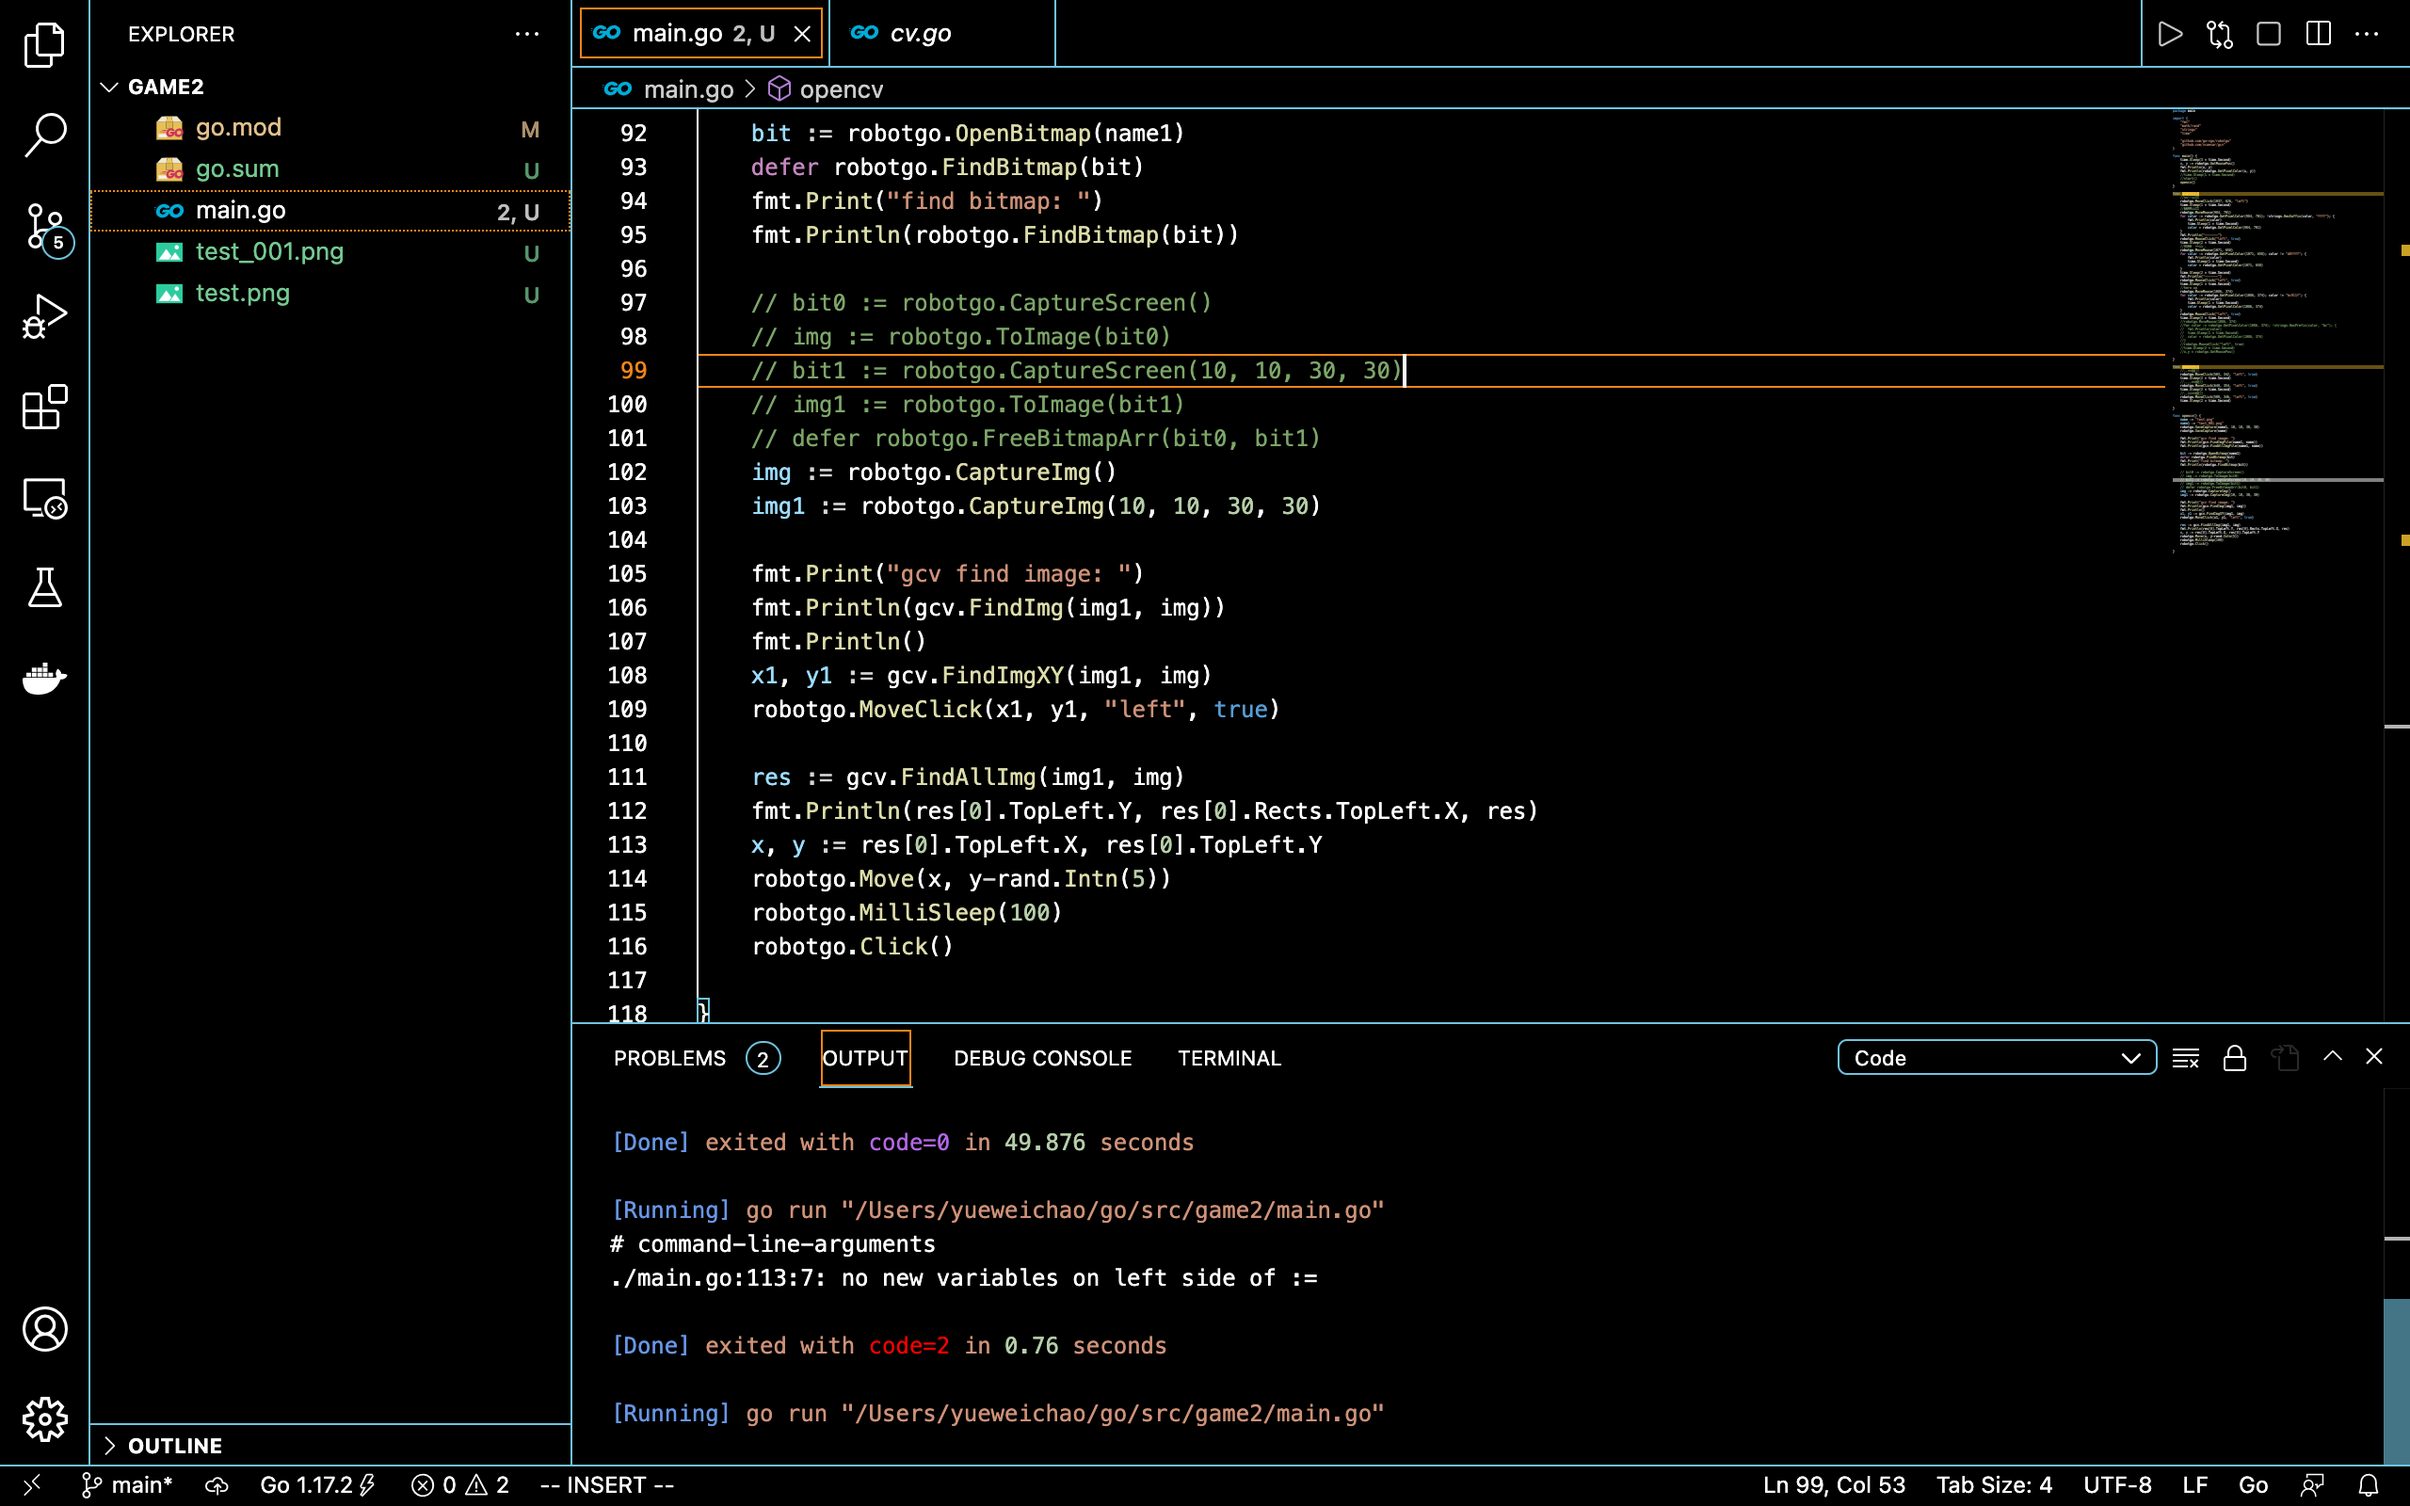
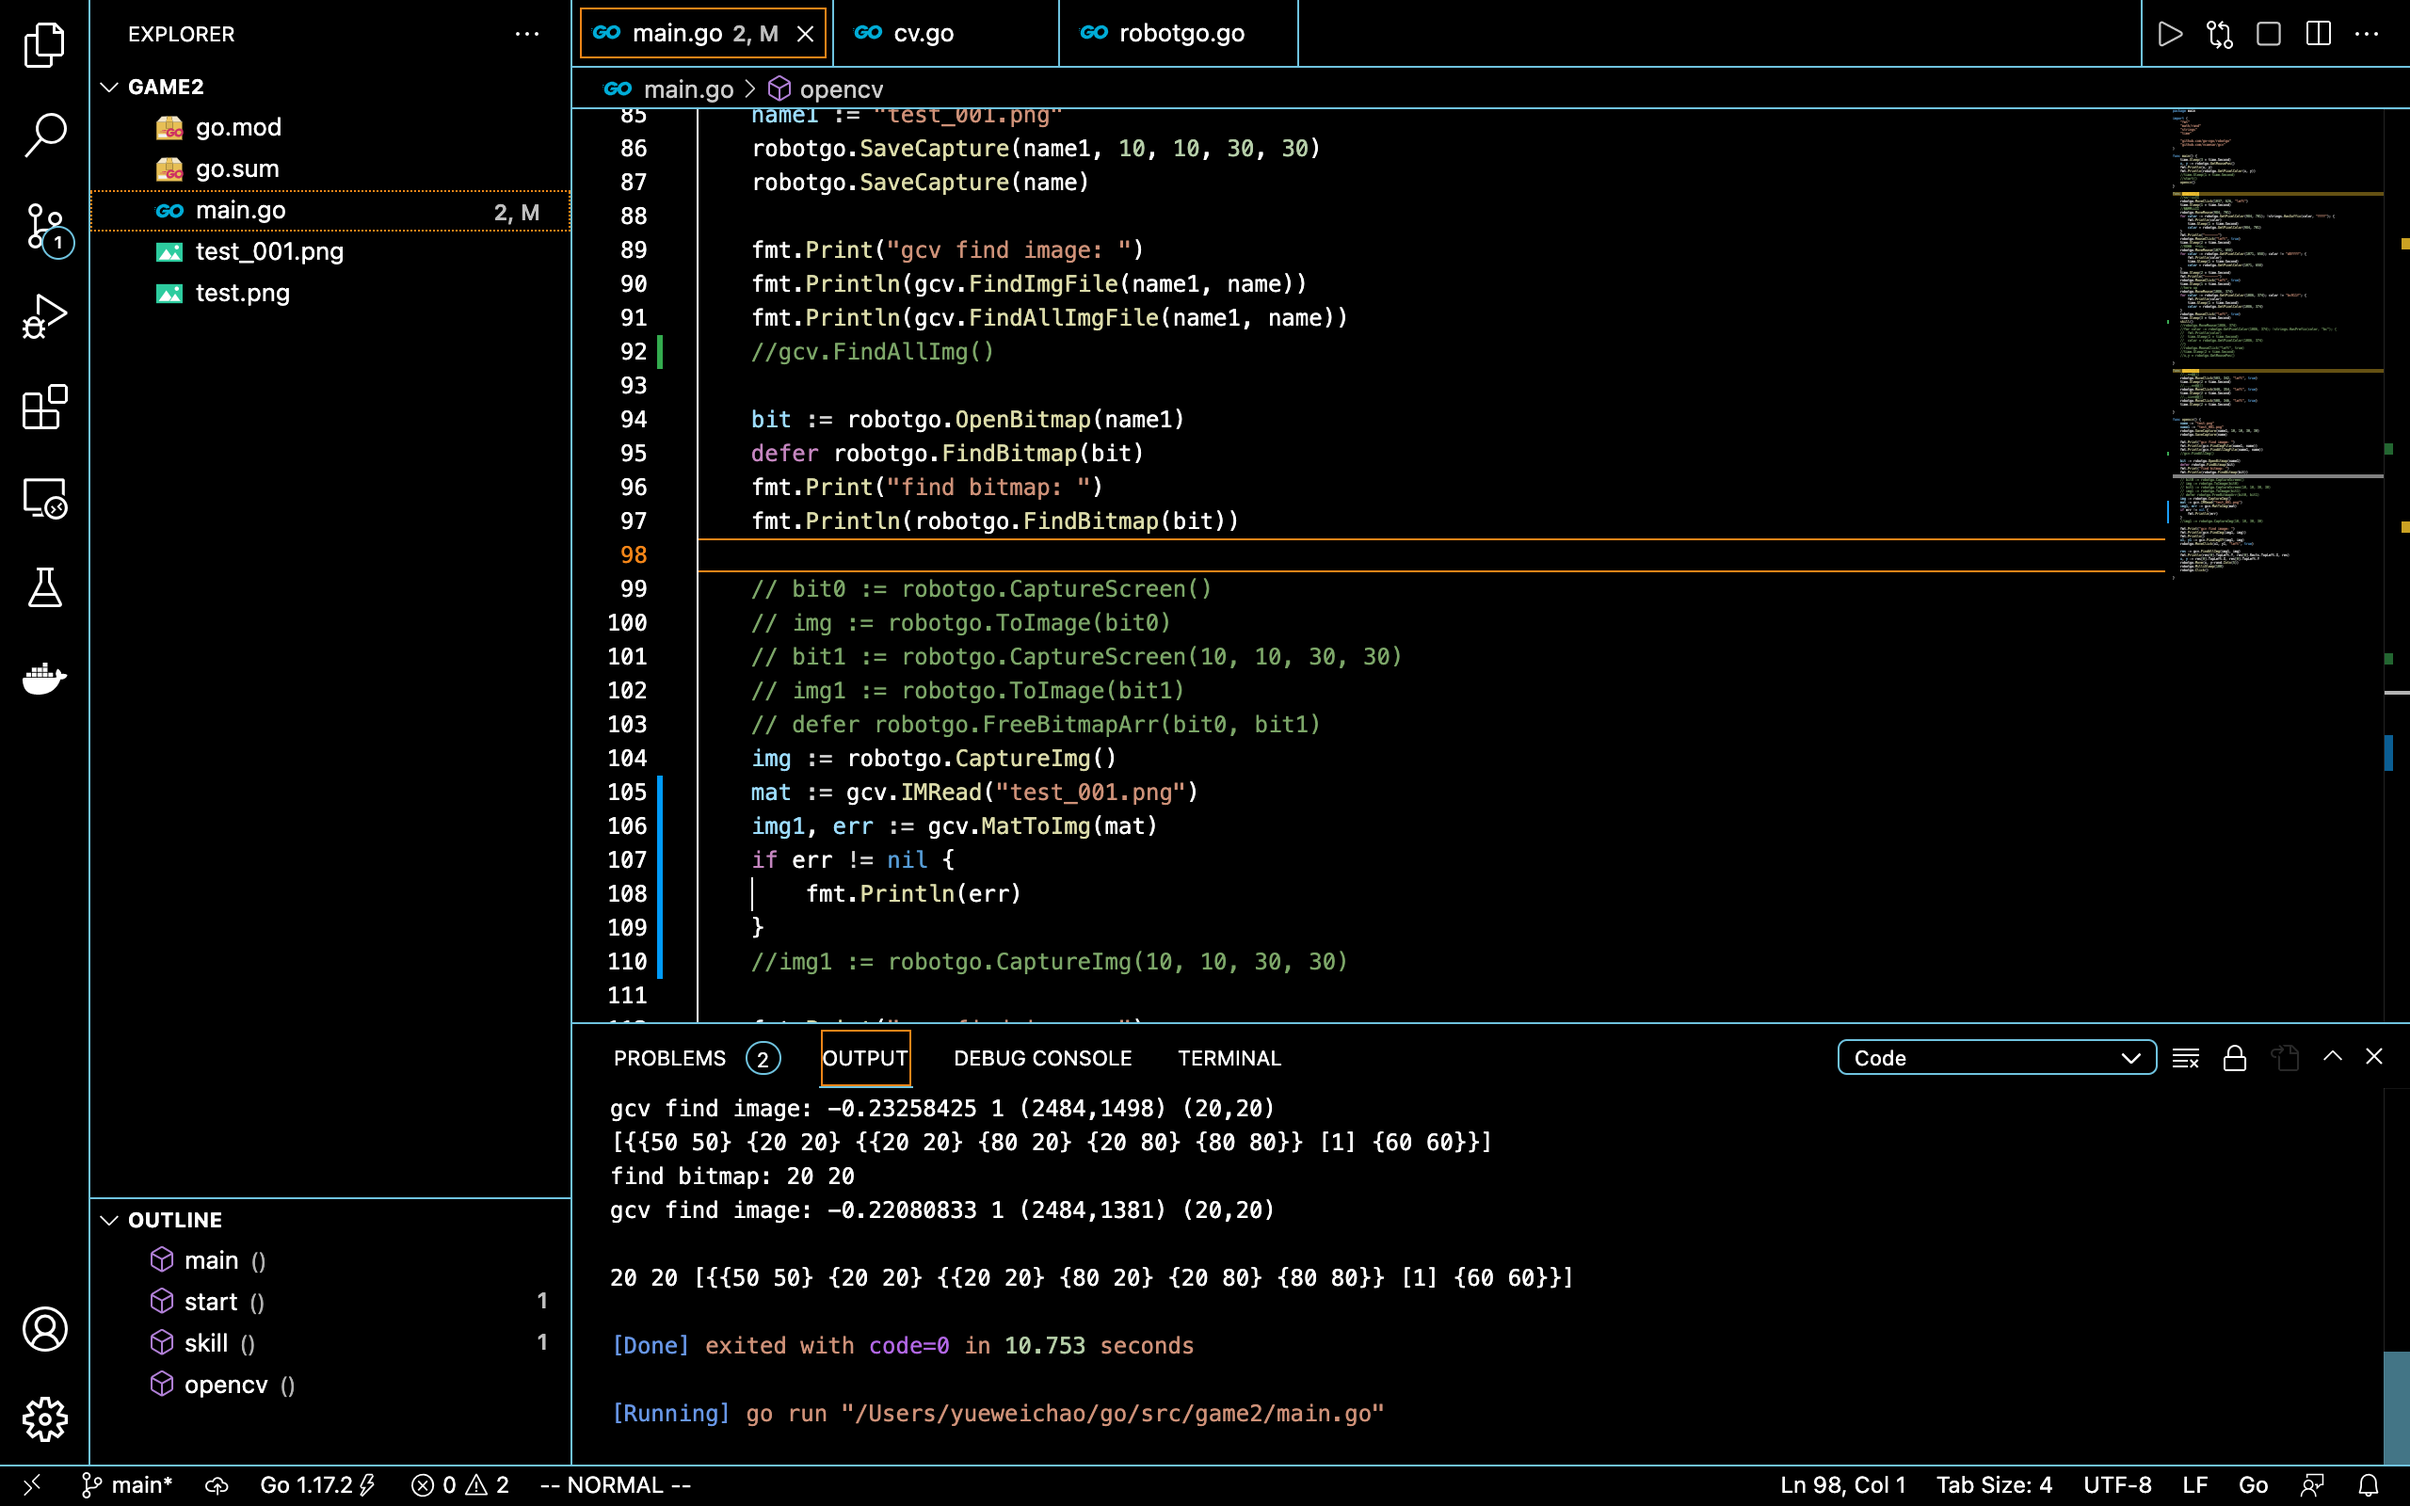
v1

diff --git a/main.go b/main.go
@@ -10,14 +10,16 @@ import (
 	"github.com/vcaesar/gcv"
 )
 
+var count = 0
+
 func main() {
 	time.Sleep(3 * time.Second)
-	x, y := robotgo.GetMousePos()
-	fmt.Println(x, y)
-	fmt.Println(robotgo.GetPixelColor(x, y))
+	//x, y := robotgo.GetMousePos()
+	//fmt.Println(x, y)
+	//fmt.Println(robotgo.GetPixelColor(x, y))
 	//time.Sleep(1 * time.Second)
-	//start()
-	opencv()
+	start()
+	//opencv()
 }
 
 func start() {
@@ -34,26 +36,28 @@ func start() {
 	fmt.Println("-------")
 	robotgo.MouseClick("left", true)
 	time.Sleep(2 * time.Second)
-	//战斗开始按钮
-	robotgo.MoveMouse(1071, 658)
-	for color := robotgo.GetPixelColor(1071, 658); color != "d8ffff"; {
-		fmt.Println(color)
-		time.Sleep(1 * time.Second)
-		color = robotgo.GetPixelColor(1071, 658)
-	}
+	fight()
+	//战斗结算
+	robotgo.MoveClick(648, 354, "left", true)
+	time.Sleep(5 * time.Second)
+	robotgo.MoveClick(648, 354, "left", true)
+	time.Sleep(5 * time.Second)
+	//end
+	robotgo.MoveClick(781, 369, "left")
 	time.Sleep(2 * time.Second)
-	fmt.Println("-------")
-	robotgo.MouseClick("left", true)
-	time.Sleep(1 * time.Second)
-	//hero up
-	robotgo.MoveMouse(1086, 374)
-	for color := robotgo.GetPixelColor(1086, 374); color != "bc911f"; {
-		fmt.Println(color)
-		time.Sleep(1 * time.Second)
-		color = robotgo.GetPixelColor(1086, 374)
-	}
-	robotgo.MouseClick("left", true)
-	time.Sleep(3 * time.Second)
+	robotgo.MoveClick(782, 626, "left", true)
+	time.Sleep(2 * time.Second)
+	robotgo.MoveClick(516, 746, "left", true)
+	time.Sleep(2 * time.Second)
+
+	robotgo.MoveClick(736, 587, "left", true)
+	time.Sleep(2 * time.Second)
+	robotgo.MoveClick(543, 451, "left", true)
+	time.Sleep(2 * time.Second)
+	robotgo.MoveClick(697, 454, "left", true)
+	time.Sleep(8 * time.Second)
+	robotgo.MoveClick(679, 566, "left", true)
+	time.Sleep(8 * time.Second)
 	//robotgo.MoveMouse(1086, 374)
 	//for color := robotgo.GetPixelColor(1086, 374); !strings.HasPrefix(color, "bc"); {
 	//	fmt.Println(color)
@@ -76,10 +80,48 @@ func skill() {
 	//第三个技能
 	robotgo.MoveClick(508, 346, "left", true)
 	time.Sleep(2 * time.Second)
+	time.Sleep(2 * time.Second)
+	robotgo.MoveMouse(1117, 366)
+	for color := robotgo.GetPixelColor(1117, 366); color != "41a328"; {
+		time.Sleep(3 * time.Second)
+		color = robotgo.GetPixelColor(1117, 366)
+	}
+	robotgo.MouseClick("left", true)
+	time.Sleep(2 * time.Second)
 
 }
 
-func opencv() {
+func fight() {
+	//战斗开始按钮
+	robotgo.MoveMouse(1071, 658)
+	for color := robotgo.GetPixelColor(1071, 658); color != "d8ffff"; {
+		fmt.Println(color)
+		time.Sleep(1 * time.Second)
+		color = robotgo.GetPixelColor(1071, 658)
+	}
+	time.Sleep(2 * time.Second)
+	fmt.Println("-------")
+	robotgo.MouseClick("left", true)
+	time.Sleep(1 * time.Second)
+	//hero up
+	robotgo.MoveMouse(1086, 374)
+	for color := robotgo.GetPixelColor(1086, 374); color != "bc911f"; {
+		fmt.Println(color)
+		time.Sleep(1 * time.Second)
+		color = robotgo.GetPixelColor(1086, 374)
+	}
+	robotgo.MouseClick("left", true)
+	time.Sleep(8 * time.Second)
+	for {
+		skill()
+		robotgo.MoveMouse(621, 767)
+		if robotgo.GetPixelColor(621, 767) == "f8f8f8" {
+			break
+		}
+	}
+}
+
+func Opencv() {
 	name := "test.png"
 	name1 := "test_001.png"
 	robotgo.SaveCapture(name1, 10, 10, 30, 30)
@@ -88,6 +130,7 @@ func opencv() {
 	fmt.Print("gcv find image: ")
 	fmt.Println(gcv.FindImgFile(name1, name))
 	fmt.Println(gcv.FindAllImgFile(name1, name))
+	//gcv.FindAllImg()
 
 	bit := robotgo.OpenBitmap(name1)
 	defer robotgo.FindBitmap(bit)
@@ -100,7 +143,12 @@ func opencv() {
 	// img1 := robotgo.ToImage(bit1)
 	// defer robotgo.FreeBitmapArr(bit0, bit1)
 	img := robotgo.CaptureImg()
-	img1 := robotgo.CaptureImg(10, 10, 30, 30)
+	mat := gcv.IMRead("test_001.png")
+	img1, err := gcv.MatToImg(mat)
+	if err != nil {
+		fmt.Println(err)
+	}
+	//img1 := robotgo.CaptureImg(10, 10, 30, 30)
 
 	fmt.Print("gcv find image: ")
 	fmt.Println(gcv.FindImg(img1, img))
@@ -116,3 +164,5 @@ func opencv() {
 	robotgo.Click()
 
 }
+
+//621 767 f8f8f8
